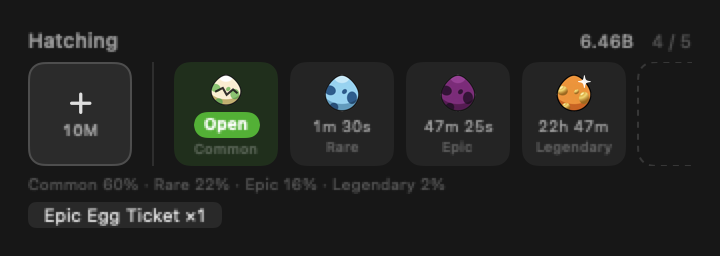
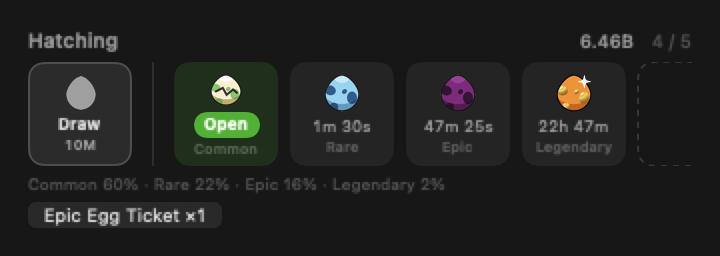
fix: label the draw tile instead of marking it with a plus
This app sells hatching slots, so a plus sign standing in the slot row
reads as 'add a slot' - which is what a plus means everywhere else in a
collection UI, and the wrong thing here.

Say what the button does instead: the existing shopDrawButton label
(Draw / 뽑기 / 引く) over the price, under a gradeless egg. The egg art is
drawn as a template silhouette rather than the common-grade egg, because
the coloured art would promise a common, and the whole point is that the
grade is unknown until it lands. It sits a step below the label in
contrast so the Open badge stays the brightest thing in the row.

Changed region(s): [[0.0611, 0.4688, 0.1528, 0.5938], [0.0917, 0.2812, 0.1528, 0.4375]]

diff --git a/Sources/PokeDexBar/UI/EggSlotsView.swift b/Sources/PokeDexBar/UI/EggSlotsView.swift
@@ -244,14 +244,24 @@ struct EggSlotsView: View {
                 .strokeBorder(Color.secondary.opacity(canDraw ? 0.30 : 0.12), lineWidth: 1)
                 .frame(width: Self.tileSize, height: Self.tileSize)
                 .overlay {
-                    VStack(spacing: 2) {
-                        Image(systemName: drawing ? "hourglass" : "plus")
-                            .font(.system(size: 13, weight: .semibold))
+                    // 옆 알 칸과 **같은 문법**이다 — 그림 / 한 줄 / 작은 한 줄. 나란히 서면
+                    // "이걸 누르면 저게 하나 생긴다"로 읽힌다.
+                    VStack(spacing: 1) {
+                        // 실루엣은 **글자보다 한 단 낮게**. 흰 알로 두면 줄에서 가장 밝은 것이 돼서
+                        // `Open` 배지(이 줄의 주인공)를 눌러버린다 — 회색 알이 "아직 모른다"는
+                        // 뜻에도 맞는다. 버튼의 정체는 글자가 맡는다.
+                        drawGlyph
+                            .foregroundStyle(canDraw ? AnyShapeStyle(.secondary)
+                                                     : AnyShapeStyle(.tertiary))
+                        // **`plus` 를 쓰면 안 된다** — 이 앱은 부화 슬롯을 실제로 돈 받고 팔아서,
+                        // 슬롯 줄에 선 `+` 는 "슬롯 추가"로 읽힌다(사용자 지적). 하는 일을 글자로 적는다.
+                        Text(l.shopDrawButton)
+                            .font(.system(size: 8, weight: .bold))
                             .foregroundStyle(canDraw ? AnyShapeStyle(.primary)
                                                      : AnyShapeStyle(.tertiary))
                         // 값은 **회색일 때도 보인다** — 얼마가 모자란지 알아야 기다릴 수 있다.
                         Text(TokenFormatter.compact(EggBalance.drawPrice))
-                            .font(.system(size: 8, weight: .semibold)).monospacedDigit()
+                            .font(.system(size: 7, weight: .semibold)).monospacedDigit()
                             .foregroundStyle(canDraw ? AnyShapeStyle(.secondary)
                                                      : AnyShapeStyle(.tertiary))
                     }
@@ -259,6 +269,19 @@ struct EggSlotsView: View {
         }
         .buttonStyle(.plain)
         .disabled(!canDraw)
+    }
+
+    /// 뽑기 칸의 그림. **등급 없는 알**이어야 한다 — 커먼 알 그림을 그대로 쓰면 "커먼이
+    /// 나온다"로 읽히는데, 무엇이 나올지는 뽑아야 안다. 그래서 같은 그림을 실루엣(템플릿)으로
+    /// 쓴다. CALayer 필터(`.brightness` 류)로 어둡게 하는 방법은 스크린샷 생성기의 그리기
+    /// 경로에서 빠지므로 쓰지 않는다(도감 실루엣이 같은 이유로 템플릿 렌더링을 쓴다).
+    @ViewBuilder private var drawGlyph: some View {
+        if drawing {
+            Image(systemName: "hourglass").font(.system(size: 14, weight: .semibold))
+        } else if let art = EggIcon.image(for: .common) {
+            Image(nsImage: art).resizable().renderingMode(.template)
+                .interpolation(.high).scaledToFit().frame(width: 15, height: 18)
+        }
     }
 
     private var emptySlot: some View {
